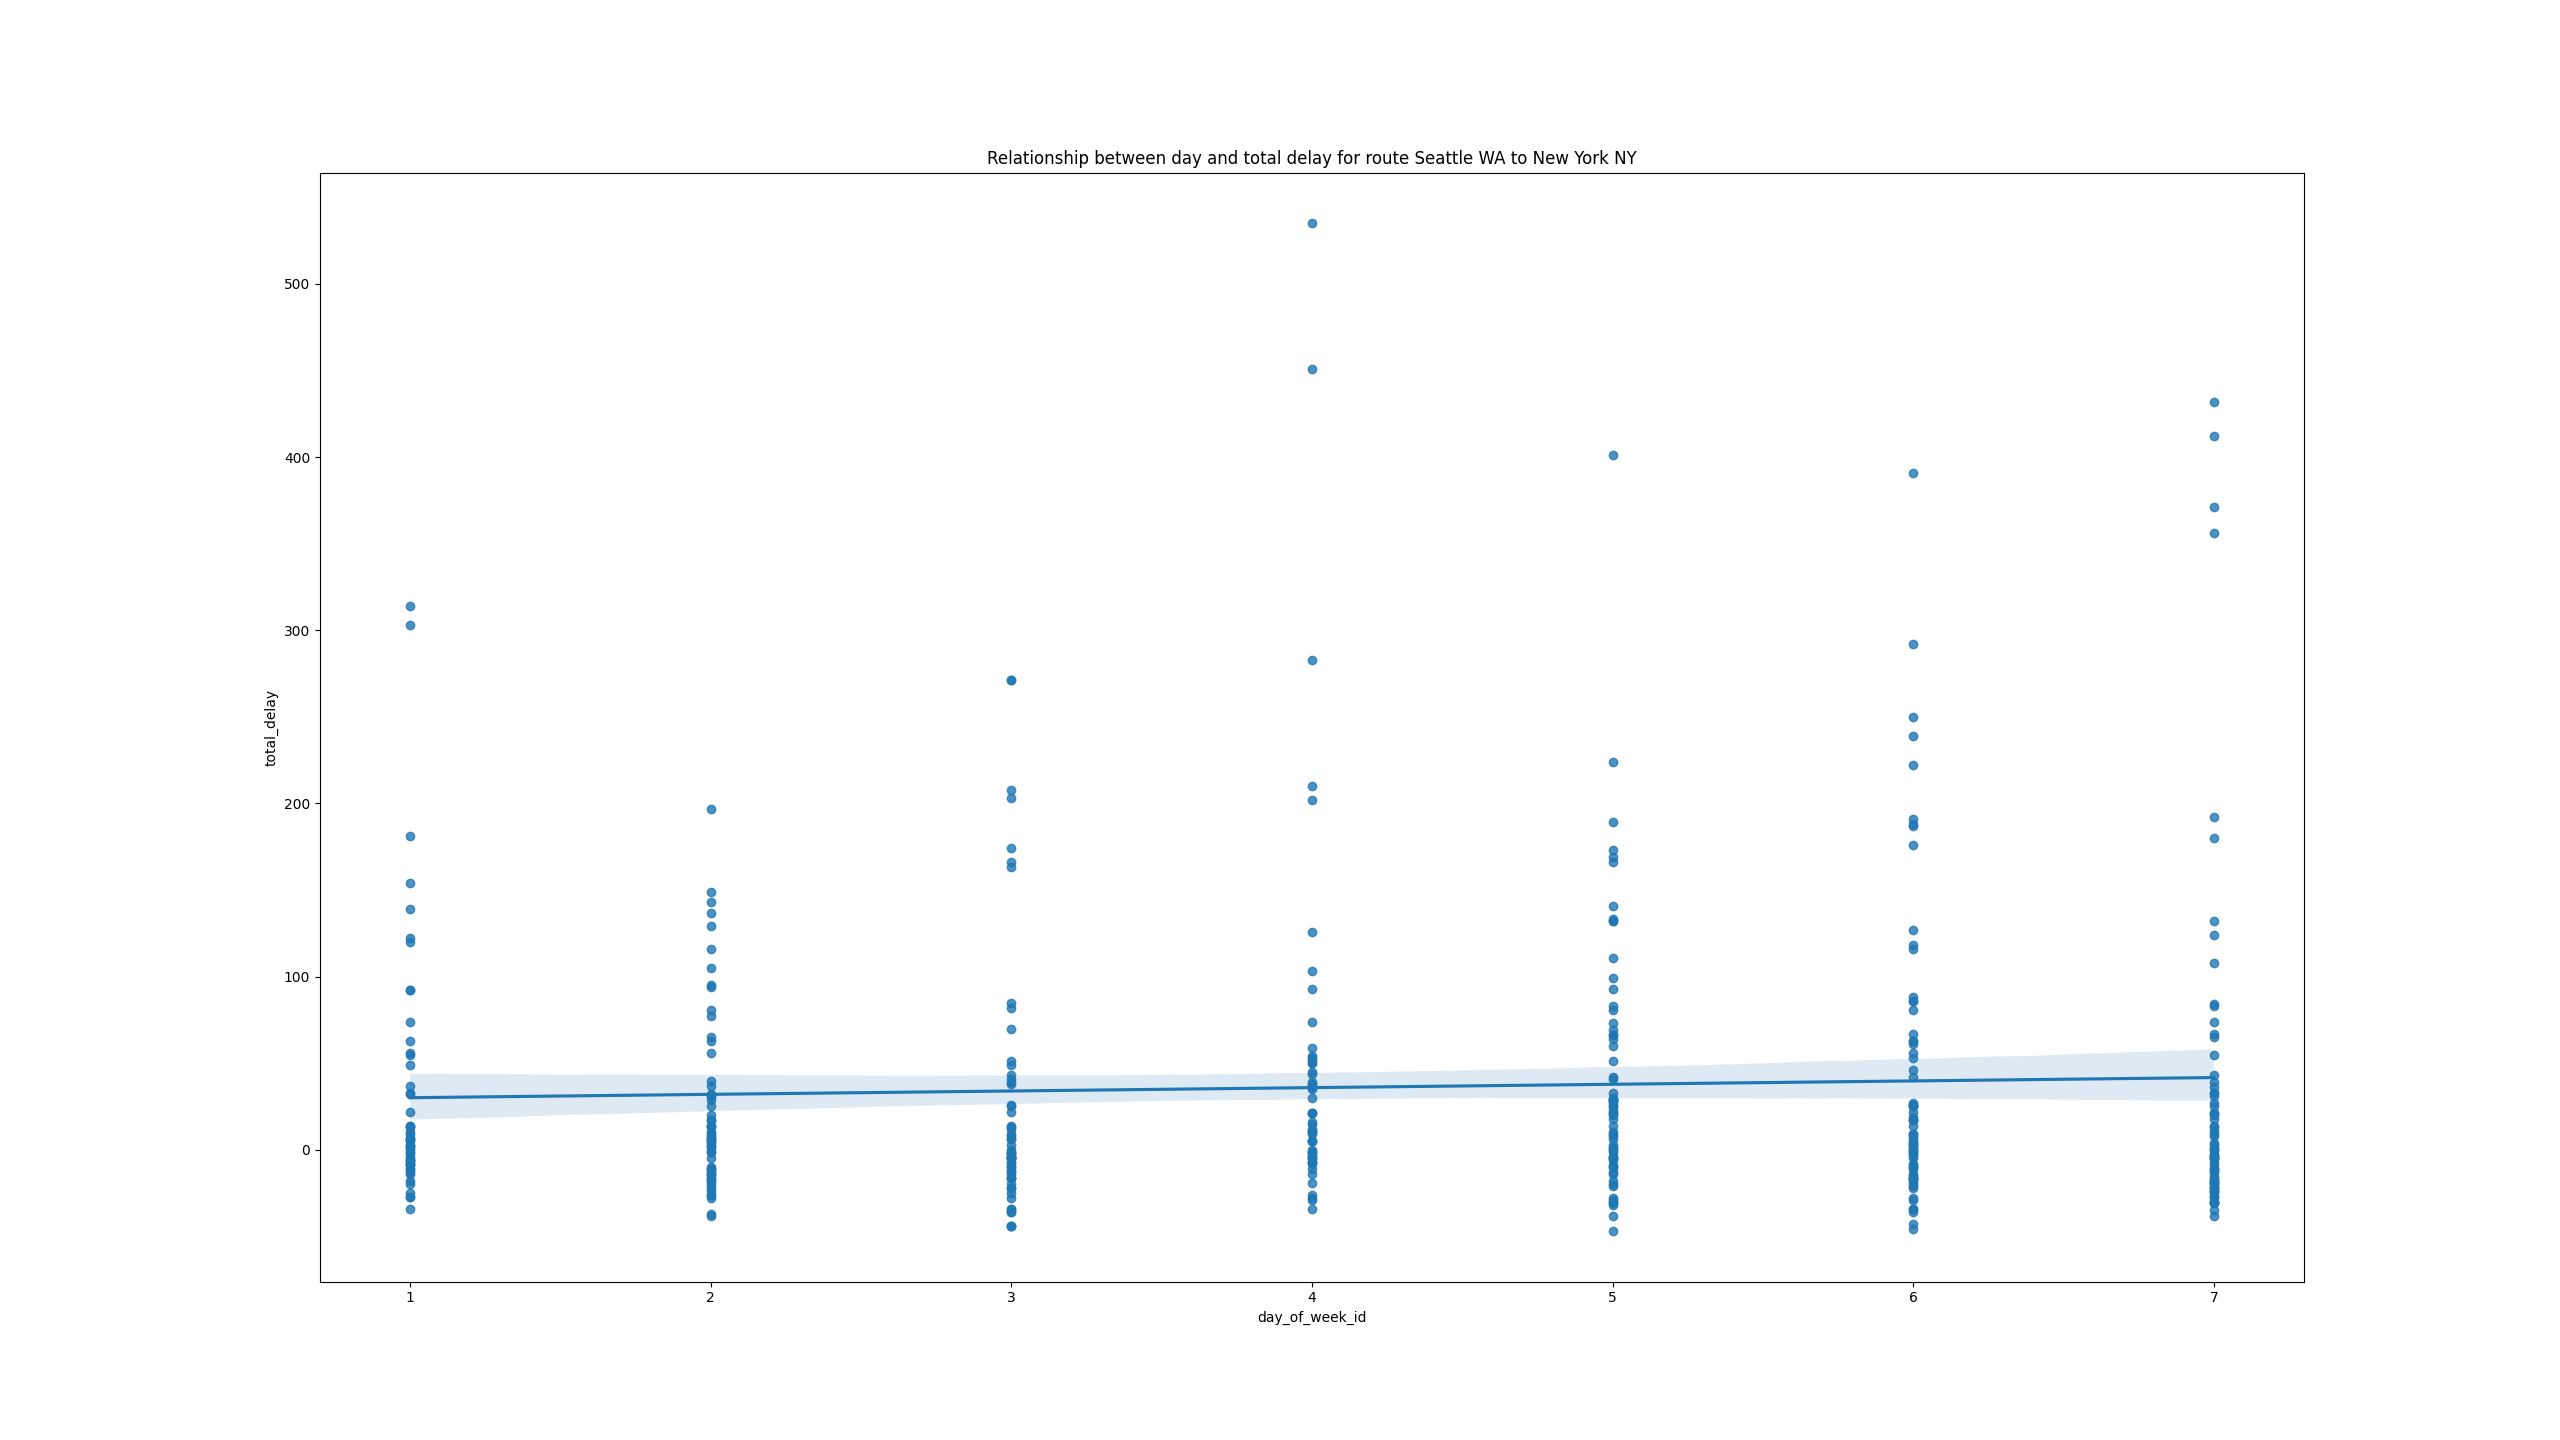
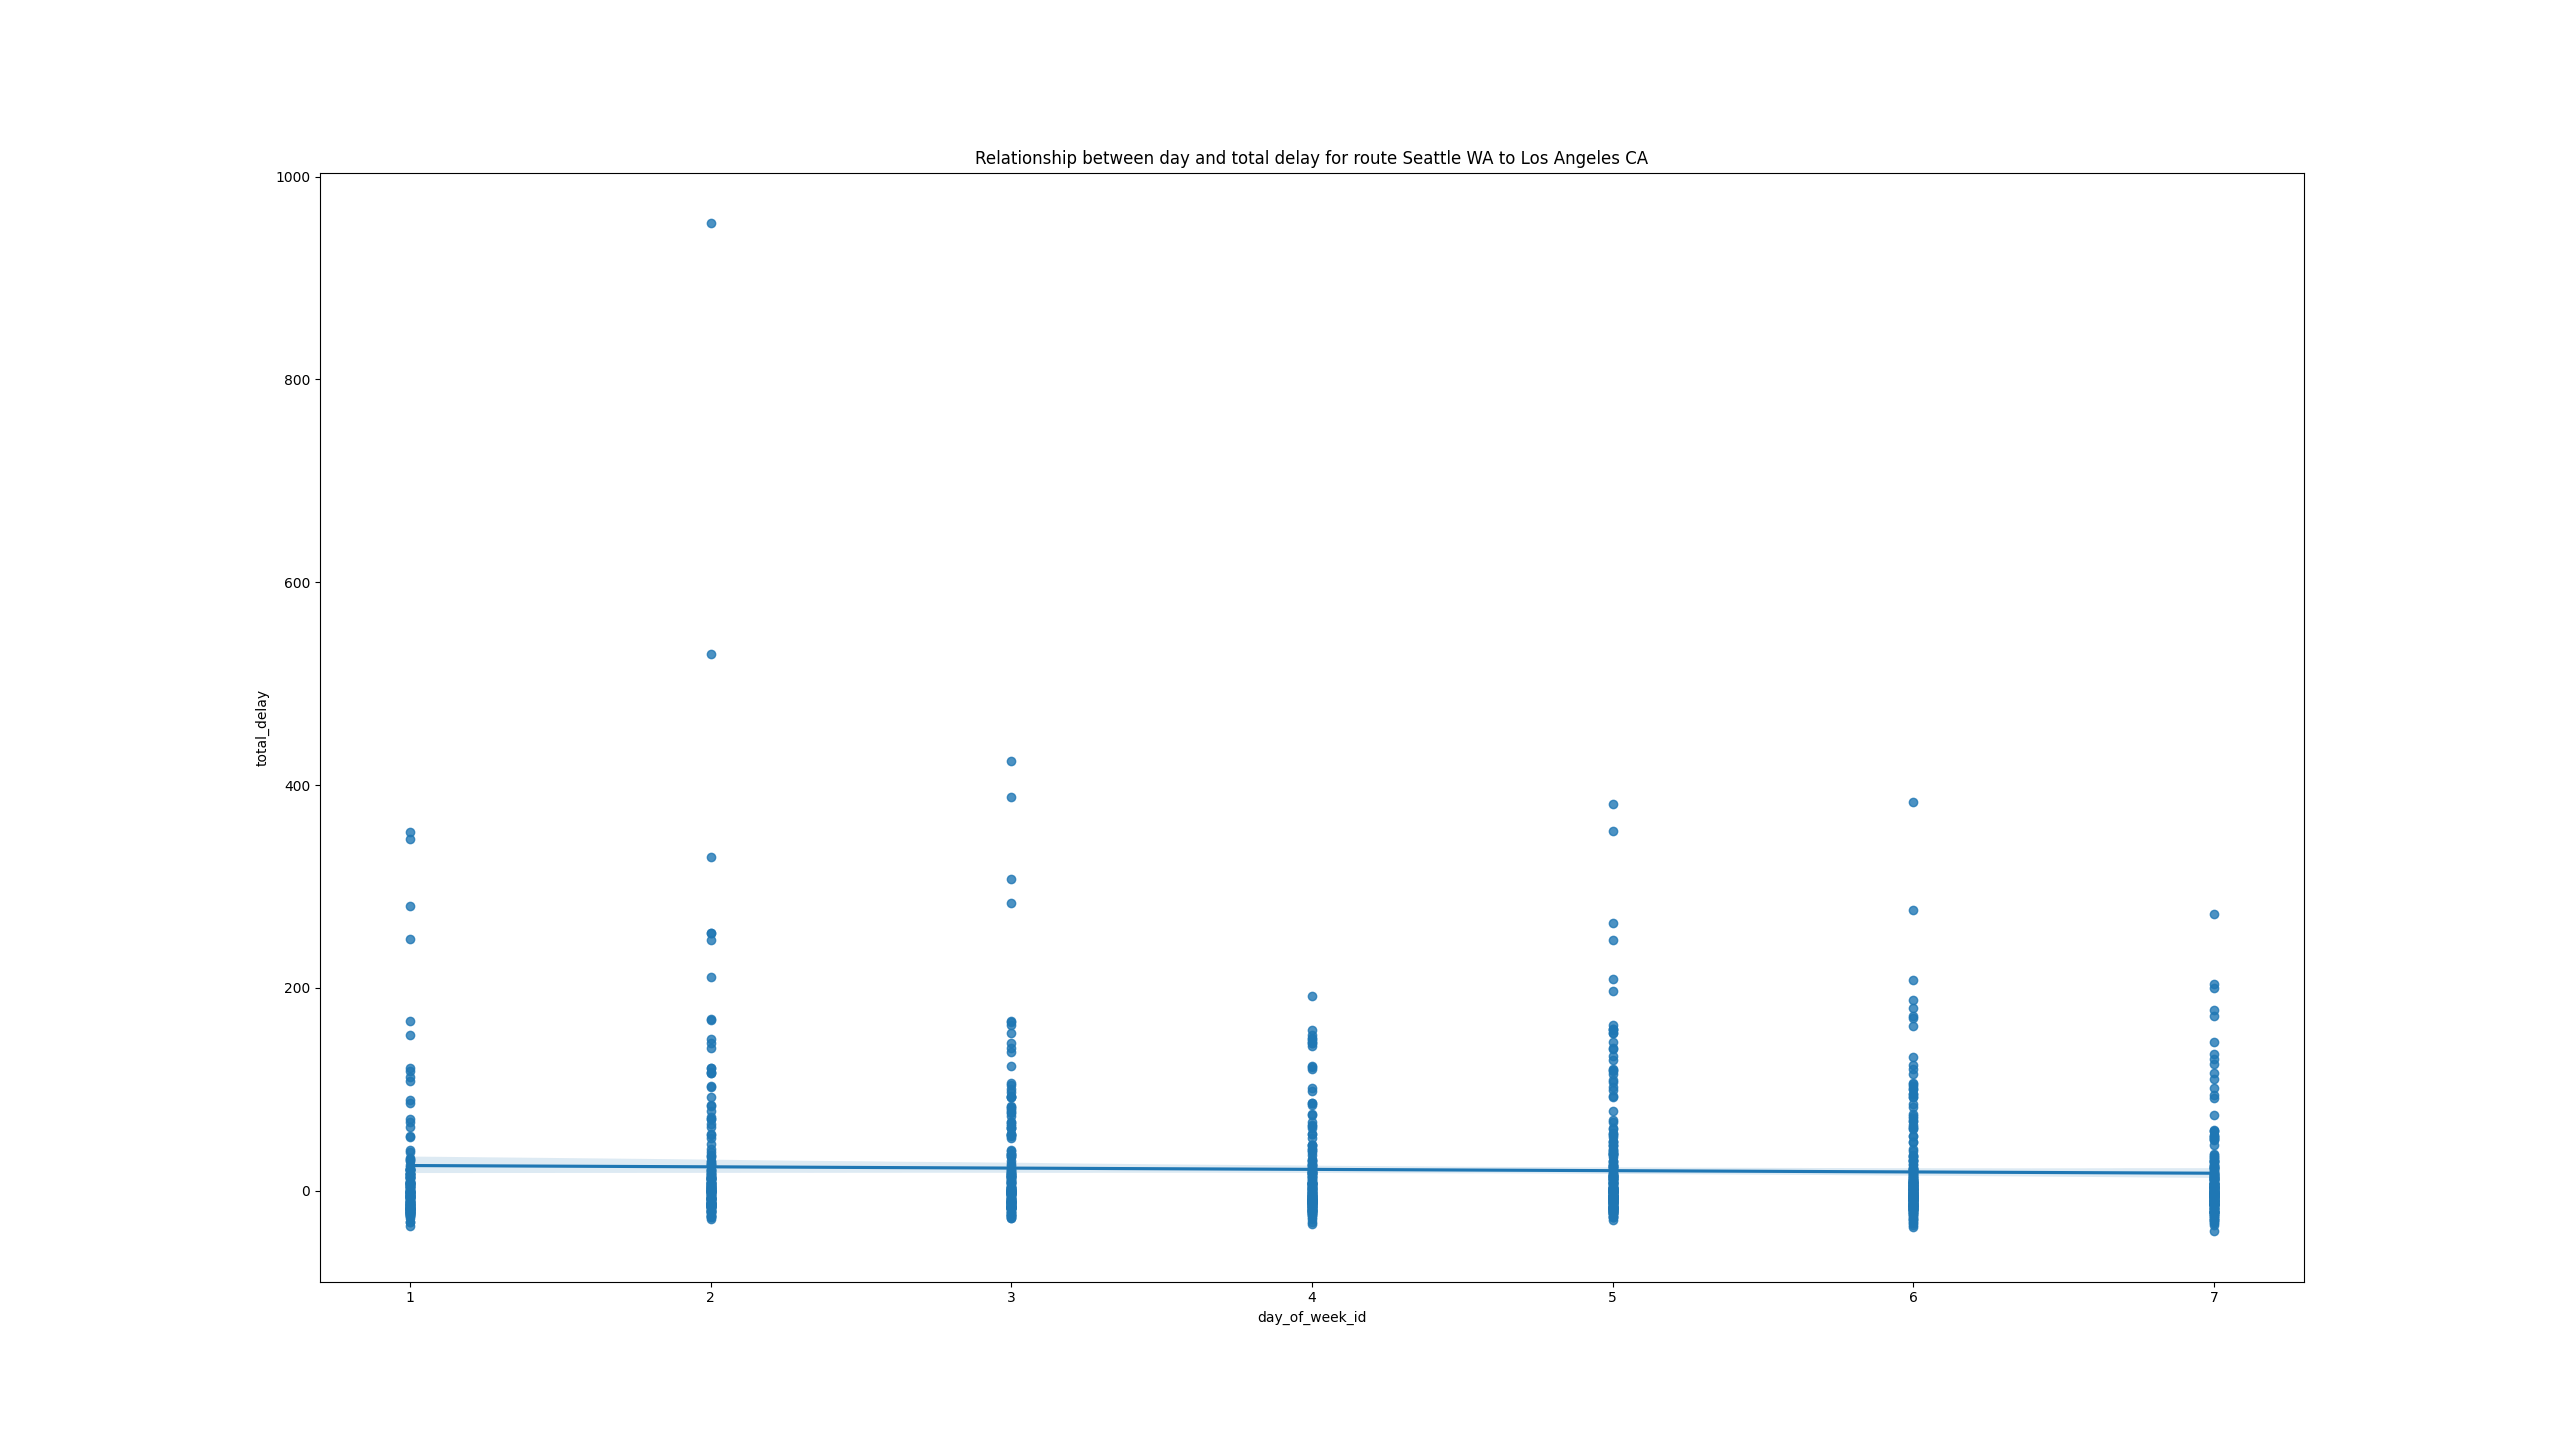
integrated make_web()

diff --git a/flight.py b/flight.py
@@ -8,6 +8,7 @@ from pywebio.output import *
 from pywebio.input import *
 from PIL import Image
 from fpdf import FPDF
+from pywebio.session import run_js
 from sklearn.metrics import mean_squared_error
 from sklearn.tree import DecisionTreeRegressor
 from sklearn.model_selection import train_test_split
@@ -270,10 +271,23 @@ def make_pdf(data):
 
 def make_web(data, plot):
     pywebio.config(css_style="#output-container{min-width: 90vw;}")
-    dep = pywebio.input.input(label='Departure', type=TEXT, onchange=True, placeholder='Please follow the format "Seattle WA"')
-    dest = pywebio.input.input(label='Destination', type=TEXT, onchange=True, placeholder='Please follow the format "Seattle WA"')
-    with Image.open("US_day_delay_one_route_delay.png") as im:
-        pywebio.output.put_image(im)
+    user_input = input_group('View historical delay', [
+                    input(label='Departure City', type=TEXT, onchange=True, name='dep',
+                          placeholder='Seattle, WA (Please use comma to separate city and state)', required=True),
+                    input(label='Destination City', type=TEXT, onchange=True, name='dest',
+                          placeholder='New York, NY (Please use comma to separate city and state)', required=True)
+                    ])
+    dep_sep = user_input['dep'].split(',')
+    dest_sep = user_input['dest'].split(',')
+    dep = dep_sep[0].title().strip() + " " + dep_sep[1].upper().strip()
+    dest = dest_sep[0].title().strip() + " " + dest_sep[1].upper().strip()
+    plot(data, dep, dest)
+    img = open('US_day_delay_one_route_delay.png', 'rb')
+    put_image(img.read())
+    # put_button('Return to input', onclick=run_js('window.location.reload()'))
+    # put_file(dep + "to" + dest + "route delay.png", img, "Download PNG")
+    # with Image.open("US_day_delay_one_route_delay.png") as im:
+    #     put_image(im)
 
 
 def main():
@@ -285,24 +299,24 @@ def main():
     df0 = gpd.read_file('resources/gz_2010_us_040_00_5m.json')
     df1 = pd.read_csv('resources/flight-dataset-2/flights-small.csv')
     df2 = pd.read_csv('resources/flight-dataset-2/carriers.csv')
-    print(df0.columns)
-    print(df1.columns)
-    print(df2.columns)
-    plot_data_origin(data_origin)
-    plot_data_dest(data_dest)
-    plot_data_biggest_carrier(data_carrier)
-    plot_data_worst_carrier_delay(data_carrier)
-    plot_data_worst_carrier_cancel(data_carrier)
-    plot_data_price_delay_carriers(data_carrier)
-    plot_data_price_delay_origin(data_origin)
-    plot_data_price_delay_dest(data_dest)
-    plot_data_price_cancel_dest(data_dest)
-    plot_data_price_cancel_origin(data_origin)
-    plot_data_price_cancel_carriers(data_carrier)
-    plot_data_one_route(df1, 'Seattle WA', 'New York NY')
-    plot_data_route(data_route)
-    fit_and_predict_delay(df1)
-    make_pdf(data_dest)
+    # print(df0.columns)
+    # print(df1.columns)
+    # print(df2.columns)
+    # plot_data_origin(data_origin)
+    # plot_data_dest(data_dest)
+    # plot_data_biggest_carrier(data_carrier)
+    # plot_data_worst_carrier_delay(data_carrier)
+    # plot_data_worst_carrier_cancel(data_carrier)
+    # plot_data_price_delay_carriers(data_carrier)
+    # plot_data_price_delay_origin(data_origin)
+    # plot_data_price_delay_dest(data_dest)
+    # plot_data_price_cancel_dest(data_dest)
+    # plot_data_price_cancel_origin(data_origin)
+    # plot_data_price_cancel_carriers(data_carrier)
+    # plot_data_one_route(df1, 'Seattle WA', 'New York NY')
+    # plot_data_route(data_route)
+    # fit_and_predict_delay(df1)
+    # make_pdf(data_dest)
     make_web(df1, plot_data_one_route)
     #plot_data_route_best(data_route)
     #plot_data_route_worst(data_route)
